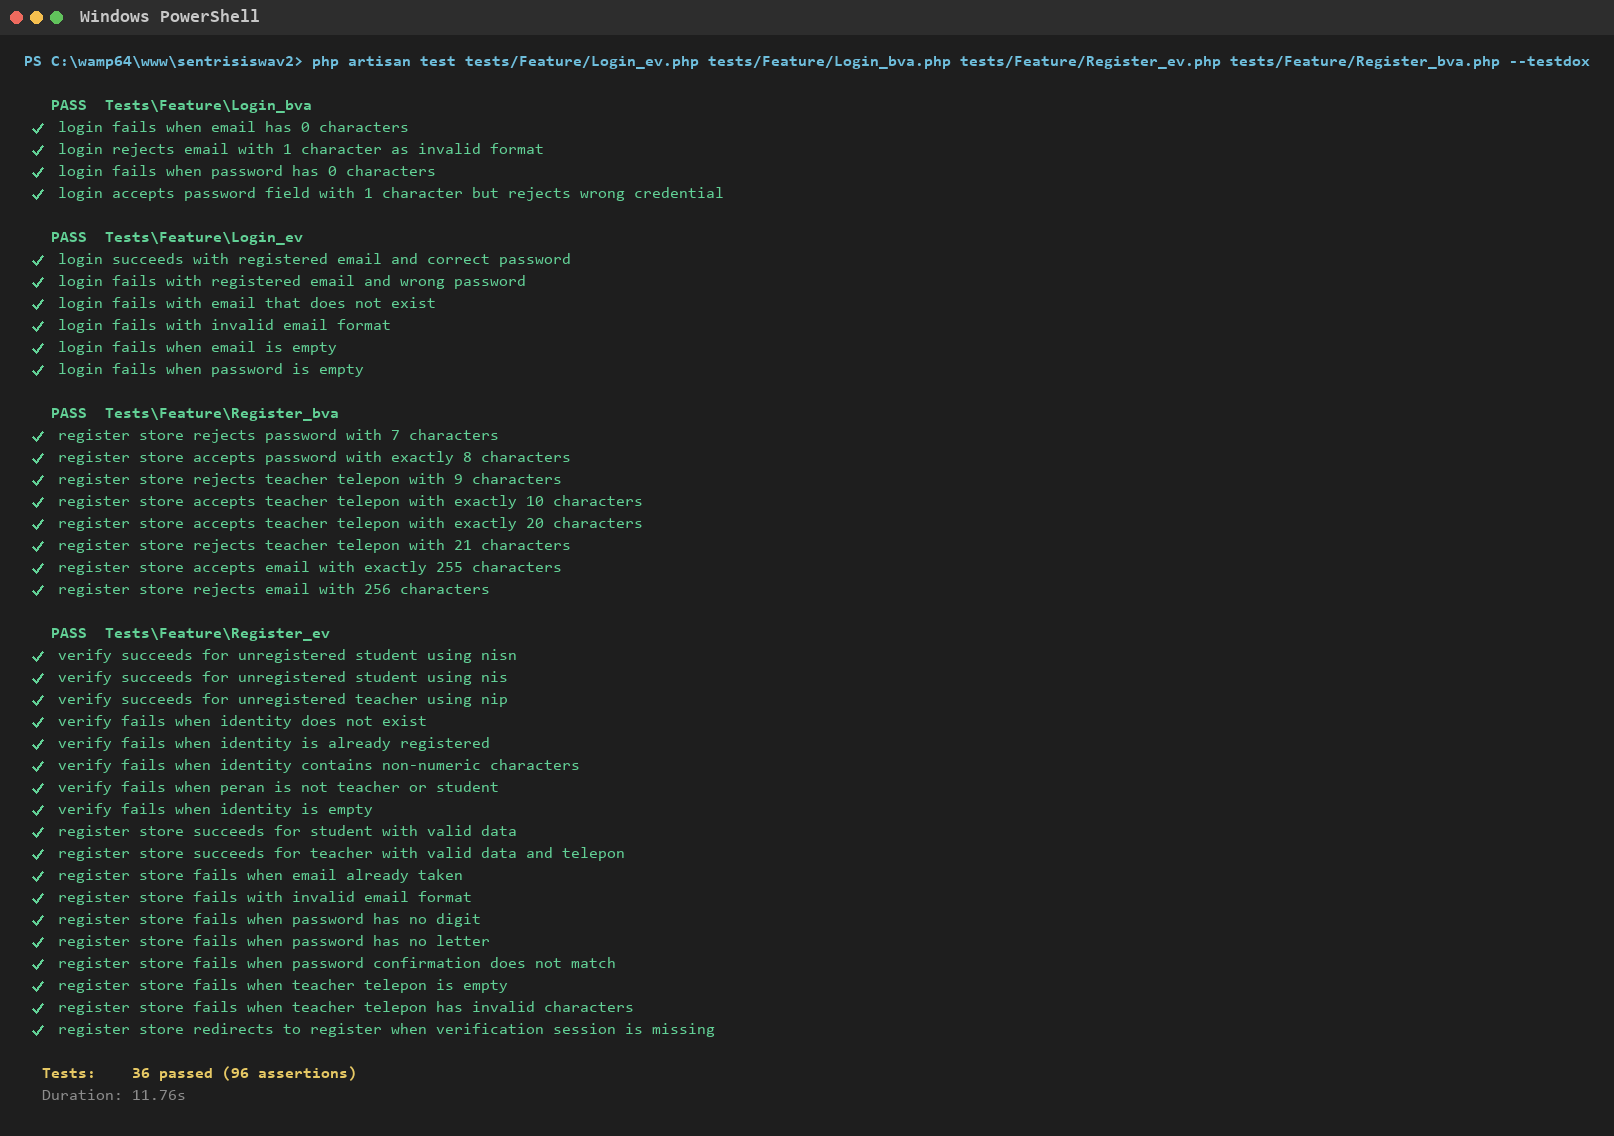
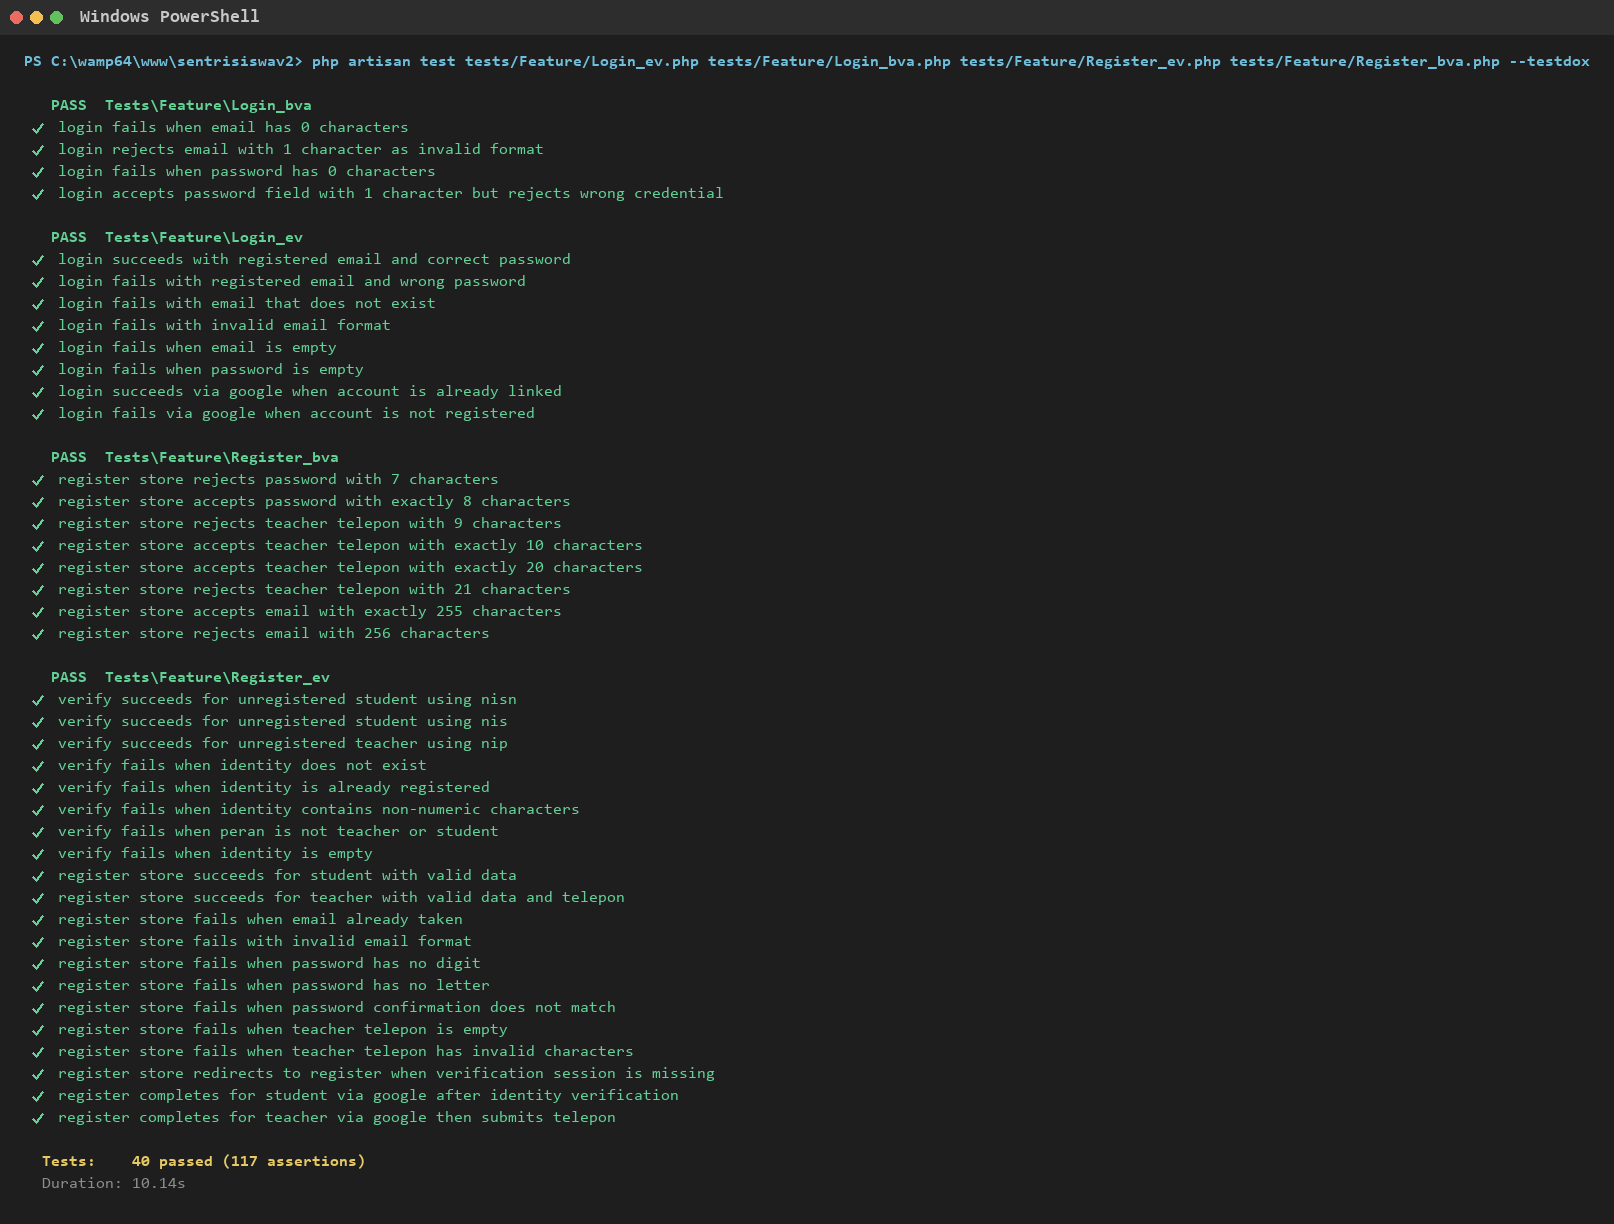
Test: Merge Google login/register scenarios into Login/Register test cases
Adds EP scenarios for the Google OAuth path into the existing Login_ev.php
and Register_ev.php files instead of separate sheets/files, per request:
login via an already-linked Google account, login via an unlinked Google
account (negative), and completing registration via "Daftar dengan
Google" for both student and teacher (teacher continues into the
WhatsApp-number step same as the manual flow).

Updates docs/test_case/Test Case SentriSiswa.xlsx (2 new rows in each
sheet) and the terminal screenshot to match — full suite now 114/114
passing (was 110, +4 Google scenarios).

Claude-Session: https://claude.ai/code/session_017cTSAwhuMaaQw8sQ1h2nM4

Changed region(s): [[0.031, 0.0, 0.9913, 0.5238], [0.031, 0.5546, 0.4337, 0.9859]]

diff --git a/tests/Feature/Register_ev.php b/tests/Feature/Register_ev.php
@@ -5,6 +5,7 @@ use App\Models\ProfilGuru;
 use App\Models\ProfilSiswa;
 use Illuminate\Foundation\Testing\RefreshDatabase;
 use Illuminate\Support\Facades\Auth;
+use Laravel\Socialite\Facades\Socialite;
 
 uses(RefreshDatabase::class);
 
@@ -269,4 +270,82 @@ test('register store redirects to register when verification session is missing'
         'password' => 'Password123',
         'password_confirmation' => 'Password123',
     ])->assertRedirect(route('register'));
+});
+
+// TS.Reg.024 / TC.Reg.024.001 — student completes registration via Google after identity verification (positive)
+test('register completes for student via google after identity verification', function () {
+    $student = Pengguna::factory()->student()->create(['status' => 'unregistered', 'email' => null]);
+    ProfilSiswa::factory()->create([
+        'pengguna_id' => $student->id,
+        'nisn' => '3333333330',
+        'nis' => '40001',
+    ]);
+
+    $abstractUser = Mockery::mock('Laravel\Socialite\Two\User');
+    $abstractUser->shouldReceive('getId')->andReturn('google-id-reg-student');
+    $abstractUser->shouldReceive('getEmail')->andReturn('siswa.google.baru@example.com');
+    $abstractUser->shouldReceive('getName')->andReturn($student->nama);
+
+    $provider = Mockery::mock('Laravel\Socialite\Two\GoogleProvider');
+    $provider->shouldReceive('user')->andReturn($abstractUser);
+
+    Socialite::shouldReceive('driver')->with('google')->andReturn($provider);
+
+    session([
+        'google_oauth_mode' => 'register',
+        'register_role' => 'student',
+        'register_user_id' => $student->id,
+        'register_identity' => '3333333330',
+        'register_name' => $student->nama,
+    ]);
+
+    $this->get(route('google.callback'))
+        ->assertRedirect(route('siswa.dashboard'));
+
+    expect(Auth::check())->toBeTrue();
+    $student->refresh();
+    expect($student->status)->toBe('registered');
+    expect($student->id_google)->toBe('google-id-reg-student');
+    expect($student->email)->toBe('siswa.google.baru@example.com');
+});
+
+// TS.Reg.025 / TC.Reg.025.001 — teacher completes registration via Google, then submits telepon (positive)
+test('register completes for teacher via google then submits telepon', function () {
+    $teacher = Pengguna::factory()->homeroom()->create(['status' => 'unregistered', 'email' => null]);
+    ProfilGuru::factory()->create([
+        'pengguna_id' => $teacher->id,
+        'nip' => '198501012020121077',
+    ]);
+
+    $abstractUser = Mockery::mock('Laravel\Socialite\Two\User');
+    $abstractUser->shouldReceive('getId')->andReturn('google-id-reg-teacher');
+    $abstractUser->shouldReceive('getEmail')->andReturn('guru.google.baru@example.com');
+    $abstractUser->shouldReceive('getName')->andReturn($teacher->nama);
+
+    $provider = Mockery::mock('Laravel\Socialite\Two\GoogleProvider');
+    $provider->shouldReceive('user')->andReturn($abstractUser);
+
+    Socialite::shouldReceive('driver')->with('google')->andReturn($provider);
+
+    session([
+        'google_oauth_mode' => 'register',
+        'register_role' => 'teacher',
+        'register_user_id' => $teacher->id,
+        'register_identity' => '198501012020121077',
+        'register_name' => $teacher->nama,
+    ]);
+
+    $this->get(route('google.callback'))
+        ->assertRedirect(route('google.whatsapp'));
+
+    expect(session('google_pending_whatsapp'))->toBeTrue();
+
+    $this->actingAs($teacher)
+        ->post(route('google.whatsapp.store'), ['telepon' => '081298765432'])
+        ->assertRedirect(route('wali-kelas.dashboard'));
+
+    $teacher->refresh();
+    expect($teacher->status)->toBe('registered');
+    expect($teacher->id_google)->toBe('google-id-reg-teacher');
+    expect($teacher->profilGuru->telepon)->toBe('081298765432');
 });

diff --git a/tests/Feature/Login_ev.php b/tests/Feature/Login_ev.php
@@ -1,8 +1,10 @@
 <?php
 
 use App\Models\Pengguna;
+use App\Models\ProfilSiswa;
 use Illuminate\Foundation\Testing\RefreshDatabase;
 use Illuminate\Support\Facades\Auth;
+use Laravel\Socialite\Facades\Socialite;
 
 uses(RefreshDatabase::class);
 
@@ -80,6 +82,52 @@ test('login fails when password is empty', function () {
         'email' => 'siswa.kosongpass@example.com',
         'password' => '',
     ])->assertSessionHasErrors('password');
+
+    expect(Auth::check())->toBeFalse();
+});
+
+// TS.Log.009 / TC.Log.009.001 — login via Google with an account already linked (positive)
+test('login succeeds via google when account is already linked', function () {
+    $user = Pengguna::factory()->student()->create([
+        'status' => 'registered',
+        'email' => 'siswa.google@example.com',
+        'id_google' => 'google-id-login-001',
+    ]);
+    ProfilSiswa::factory()->create(['pengguna_id' => $user->id]);
+
+    $abstractUser = Mockery::mock('Laravel\Socialite\Two\User');
+    $abstractUser->shouldReceive('getId')->andReturn('google-id-login-001');
+    $abstractUser->shouldReceive('getEmail')->andReturn('siswa.google@example.com');
+
+    $provider = Mockery::mock('Laravel\Socialite\Two\GoogleProvider');
+    $provider->shouldReceive('user')->andReturn($abstractUser);
+
+    Socialite::shouldReceive('driver')->with('google')->andReturn($provider);
+
+    session(['google_oauth_mode' => 'login']);
+
+    $this->get(route('google.callback'))
+        ->assertRedirect(route($user->dashboardRouteName()));
+
+    expect(Auth::check())->toBeTrue();
+    expect(Auth::id())->toBe($user->id);
+});
+
+// TS.Log.010 / TC.Log.010.001 — login via Google with an account that is not registered (negative)
+test('login fails via google when account is not registered', function () {
+    $abstractUser = Mockery::mock('Laravel\Socialite\Two\User');
+    $abstractUser->shouldReceive('getId')->andReturn('google-id-login-999');
+    $abstractUser->shouldReceive('getEmail')->andReturn('belum.terdaftar@example.com');
+
+    $provider = Mockery::mock('Laravel\Socialite\Two\GoogleProvider');
+    $provider->shouldReceive('user')->andReturn($abstractUser);
+
+    Socialite::shouldReceive('driver')->with('google')->andReturn($provider);
+
+    session(['google_oauth_mode' => 'login']);
+
+    $this->get(route('google.callback'))
+        ->assertRedirect(route('register'));
 
     expect(Auth::check())->toBeFalse();
 });
